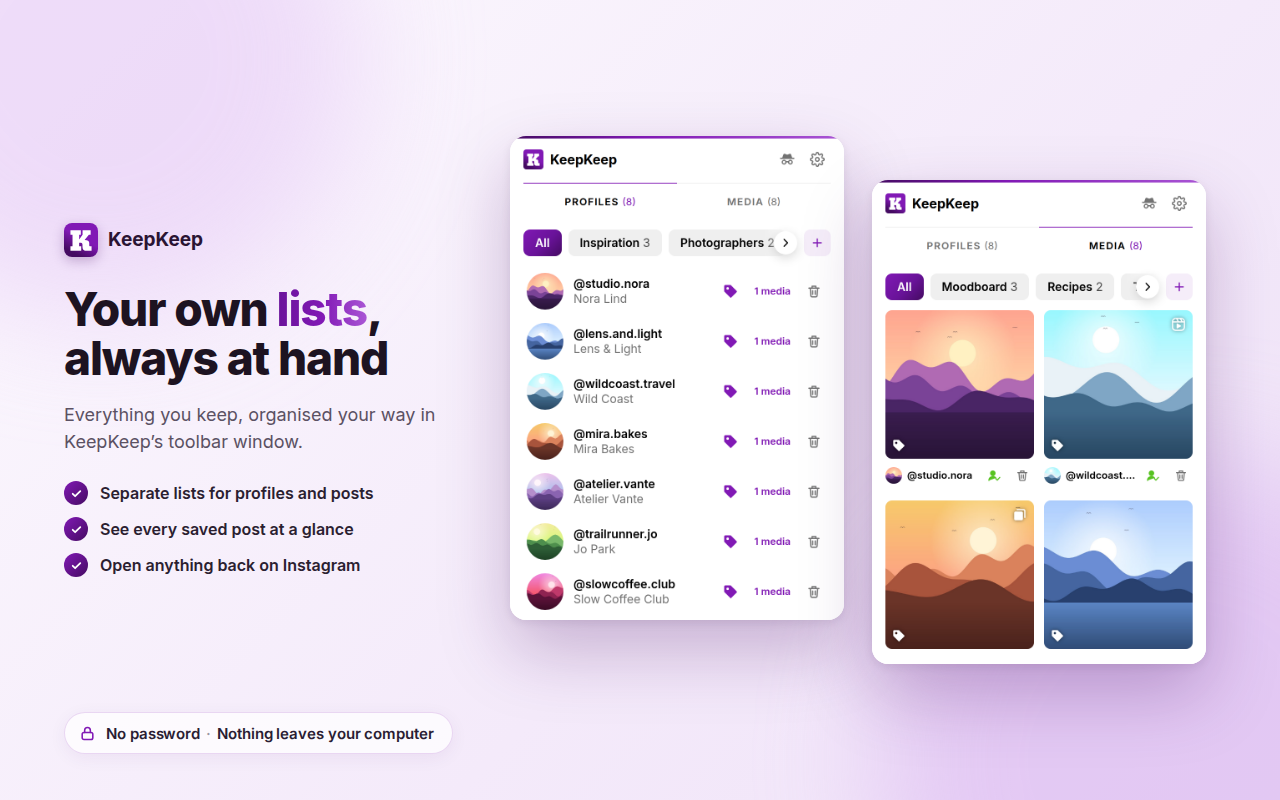
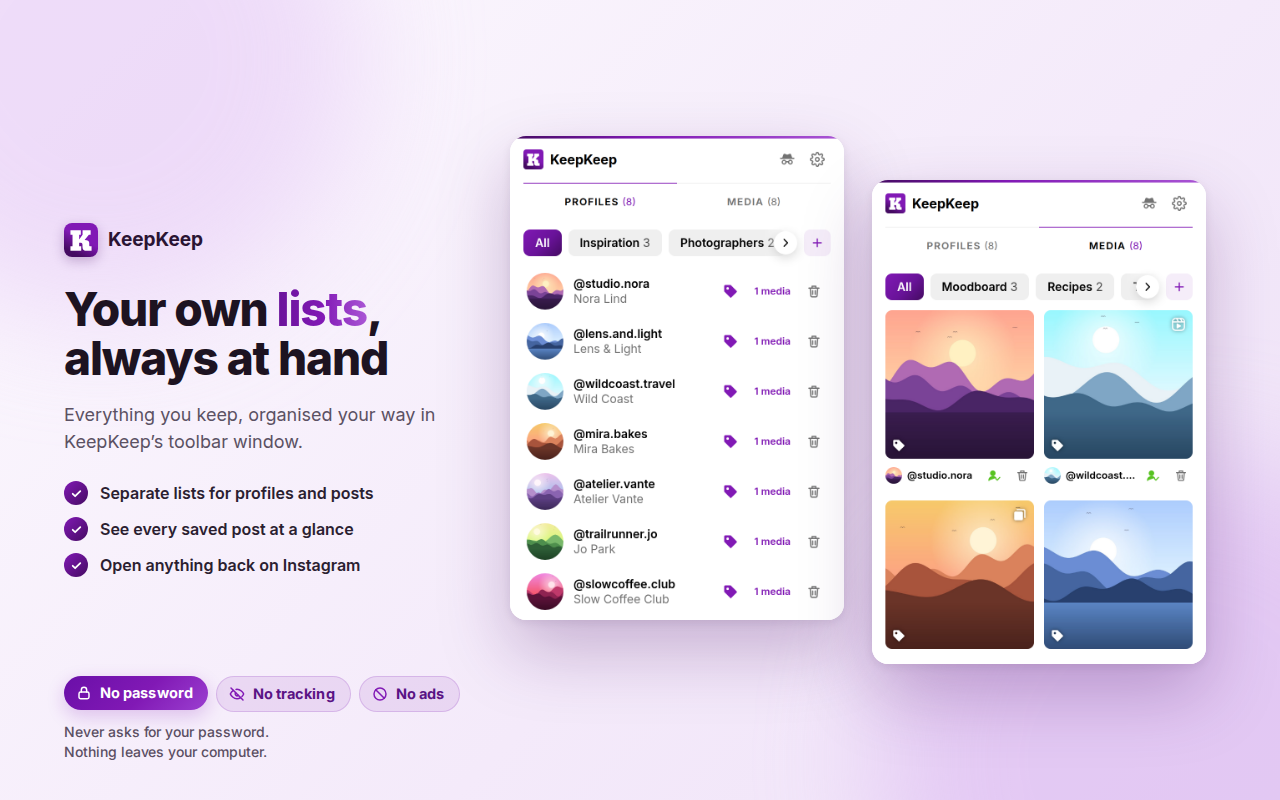
Store images: No password · No tracking · No ads badges; keep badge-free sources and the badge script
Claude-Session: https://claude.ai/code/session_013LEBTCVLueN47Nus8dVf33

Changed region(s): [[0.0312, 0.8438, 0.3438, 0.9688]]

diff --git a/ROADMAP.md b/ROADMAP.md
@@ -15,8 +15,8 @@ A tester's feedback: the biggest worry with extensions like this is that they as
 
 **Where, in order of how often it is seen:**
 1. **Summary** (`description` in `manifest.json`, max 132 characters; shown in search results and at the top of the listing), e.g. "Save posts to your lists, download in full quality, watch stories anonymously. No password. Your data never leaves your computer." (129)
-2. **Small promo tile** (440×280, shown in search and category pages): the badge line is already on it (done).
-3. **Screenshots:** screenshot 1 stays the main feature, **screenshot 2 is a dedicated "Private by design" slide** (a lock / shield visual, the headline, three short lines: works in the tab where you're signed in · everything stays on your computer · no account, no ads, no tracking). In addition, every image carries the same badge, so the message is seen whichever image someone opens – **done**: a slim "🔒 No password · Nothing leaves your computer" pill bottom-left on all five screenshots and a white line on both promo tiles (`store/assets/`, `docs/images/`; can be uploaded to the store now).
+2. **Small promo tile** (440×280, shown in search and category pages): the badges are already on it (done).
+3. **Screenshots:** screenshot 1 stays the main feature, **screenshot 2 is a dedicated "Private by design" slide** (a lock / shield visual, the headline, three short lines: works in the tab where you're signed in · everything stays on your computer · no account, no ads, no tracking). In addition, every image carries the same trust badges – **done**: "No password" (solid purple) · "No tracking" · "No ads" pills with "Never asks for your password. Nothing leaves your computer." under them, bottom-left on all five screenshots and on both promo tiles (`store/assets/`, `docs/images/`; uploaded-ready). Badge-free originals are in `store/source/`; regenerate with `node scripts/store-badges.mjs store/assets`.
 4. **Description:** already updated in `store/listing.md` (privacy opens the text and "Private by design" is the first section) – can be pasted into the dashboard now, no new package needed.
 5. **First run:** a welcome tab after installing (`chrome.runtime.onInstalled`, only on install): the headline first, then how to use KeepKeep in three steps, a link to instagram.com, and at the end Zetasis and ☕ Buy me a coffee.
 6. **Popup and website:** the badge line in the popup's empty state / settings "About", and on the GitHub page hero.

diff --git a/CLAUDE.md b/CLAUDE.md
@@ -48,6 +48,7 @@ There is no build step; `extension/` is loaded unpacked as is.
 | `store/` | Chrome Web Store listing, privacy answers, images (`assets/`) |
 | `docs/` | GitHub Pages site: `index.html`, `privacy.html`, `images/` |
 | `scripts/package.sh` | Validates the manifest, writes `dist/keepkeep-<version>.zip` |
+| `scripts/store-badges.mjs` | Adds the trust badges to the store images: `store/source/*.png` (badge-free originals, the owner loves these – don't redesign) → `store/assets/` |
 
 ## Instagram knowledge (verified)
 
